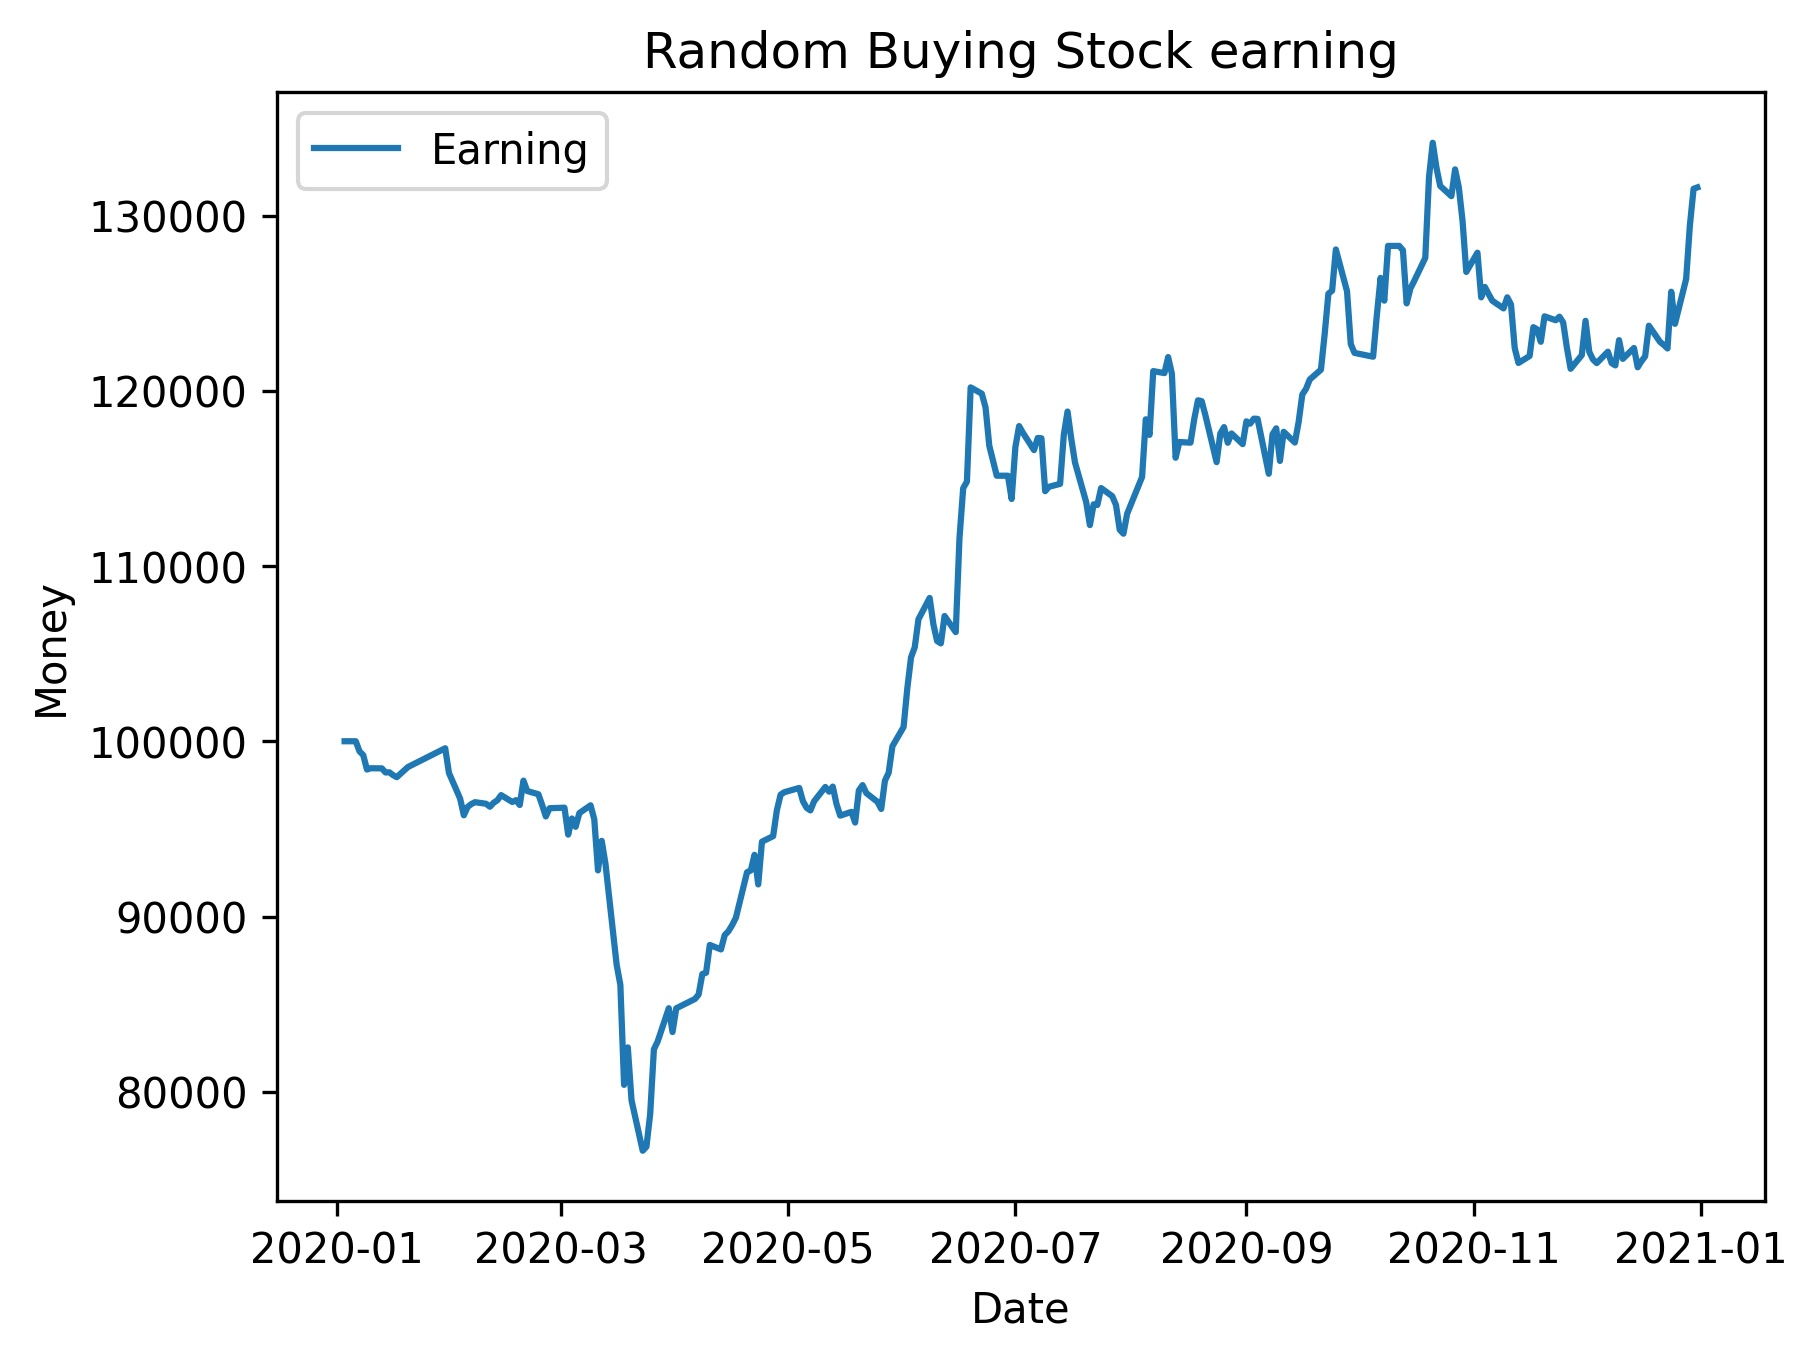
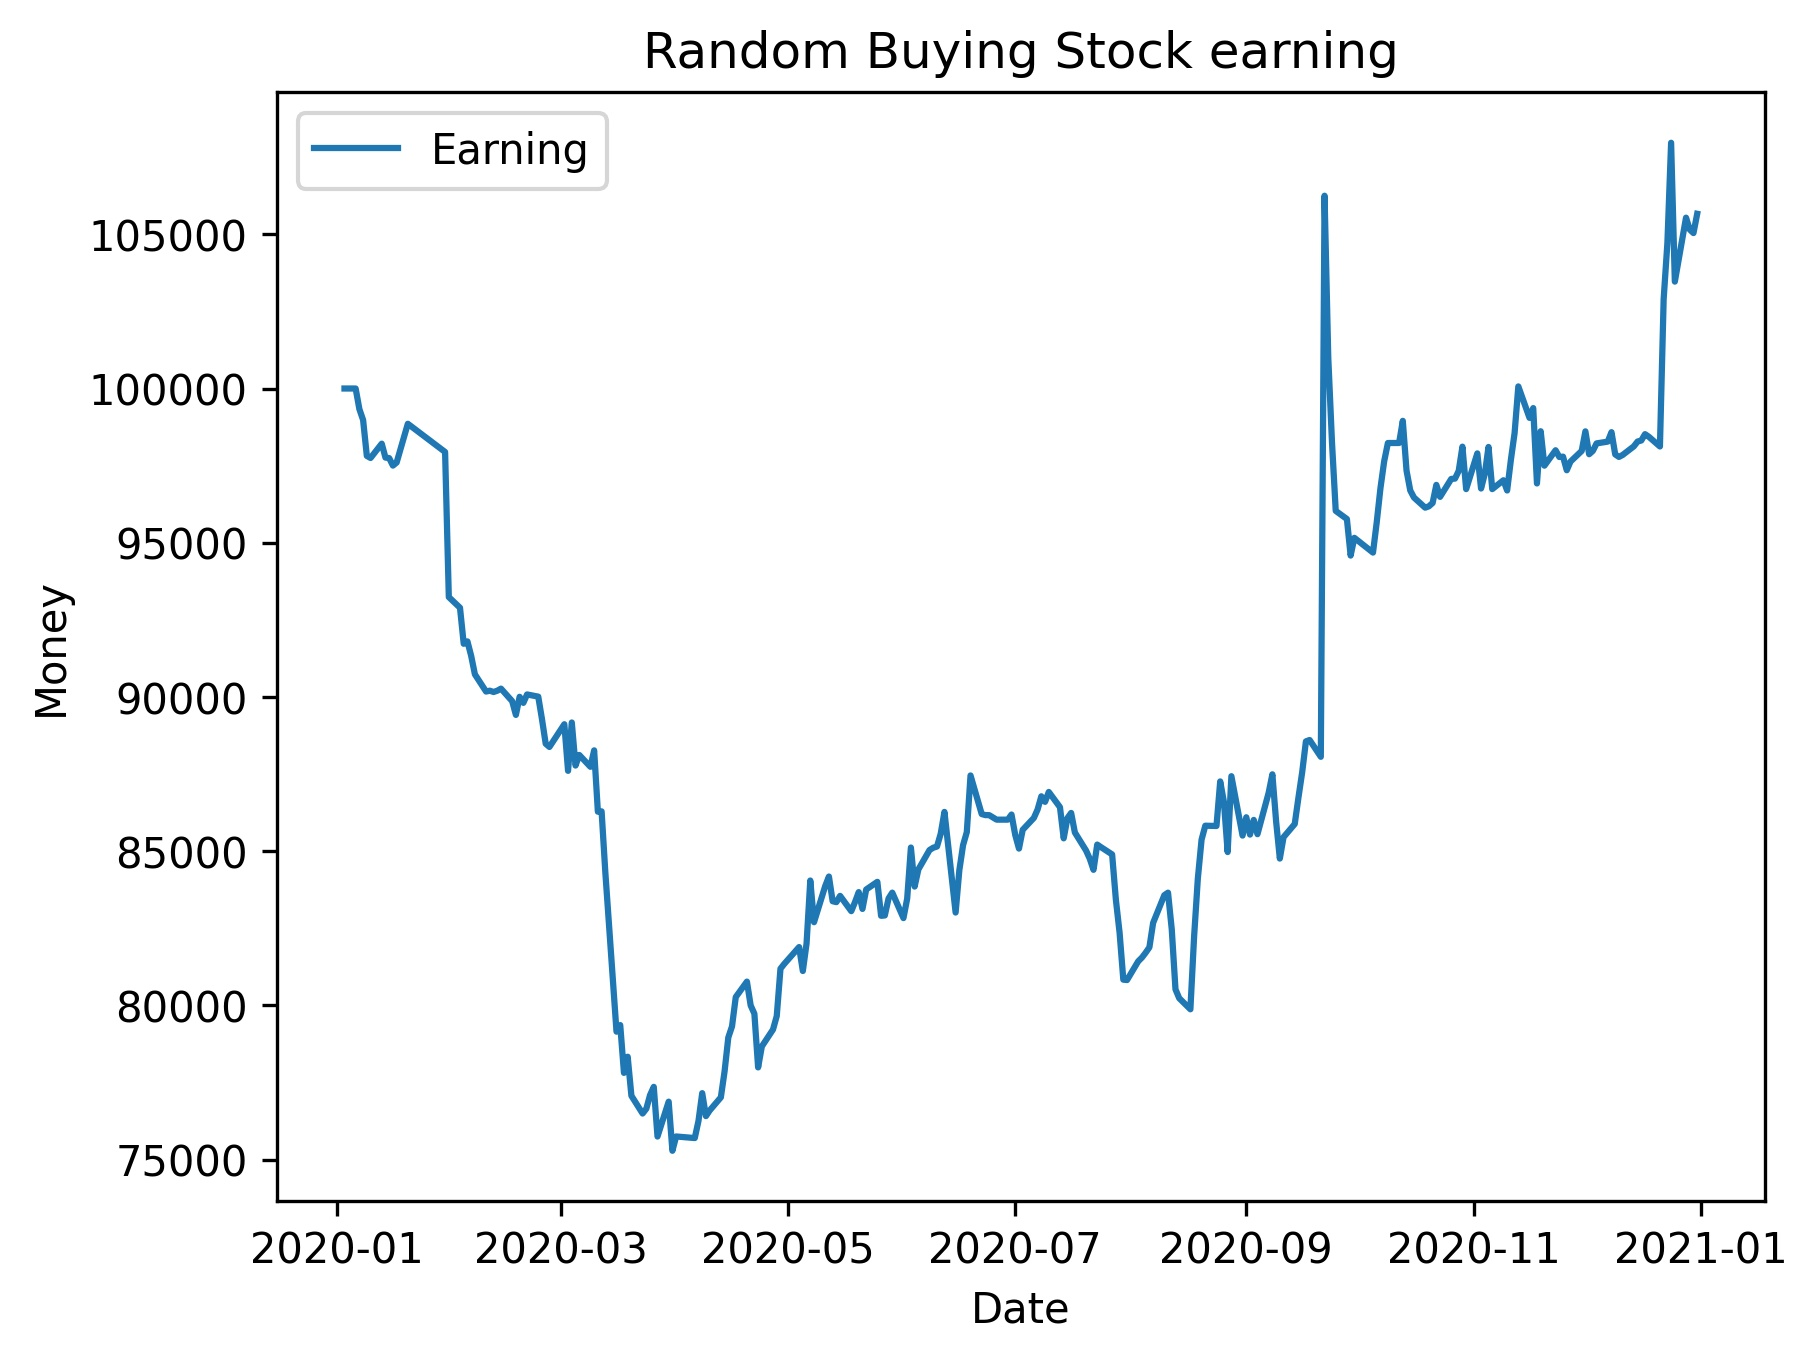
50 portion MA cross

diff --git a/Strategy_0.py b/Strategy_0.py
@@ -4,14 +4,15 @@ from pandas.core import series
 import matplotlib.pyplot as plt
 
 series = pd.date_range(start='2020-01-01', end='2020-12-31', freq='D')
-asset = [ [10000, "-1", "-1"] for i in range(10)]
+asset = [ [2000, "-1", 0] for i in range(50)]
 rawdata = pd.read_csv('../mapping.csv')
-rawdata = rawdata["ticker"].array[:1085]
+rawdata = rawdata["ticker"].array[127:1085]
 mapped = { i: 0 for i in rawdata}
 # read in data
 
 cnt = 0
 earning = [[]]
+# earning_single = [[]] * 10
 last = pd.DataFrame()
 
 for index in series:
@@ -25,13 +26,15 @@ for index in series:
     elif os.path.isfile("./ProcessedData\\" + time + ".csv"):    
  
         sum = 0
-        for i in range(10):
+        for i in range(50):
             sum += asset[i][0]
+        # print(sum)
         earning.append([index, sum])
         # update for the plot
 
         time_data = pd.read_csv("./ProcessedData\\" + time + ".csv")
-        for i in range(10):
+        for i in range(50):
+            # print(asset[i])
             if asset[i][1] == "-1":
                 for j in rawdata:
                     today = time_data.loc[time_data['identifier'] == j]
@@ -46,12 +49,17 @@ for index in series:
                 if not today.empty:
                     asset[i][0] = asset[i][2] * today['open_'].values[0]    
 
+                yest = last.loc[last['identifier'] == asset[i][1]]
+                if not today.empty and not yest.empty and today['MA_5'].values[0] < today['MA_20'].values[0] and yest['MA_20'].values[0] < yest['MA_5'].values[0]:
+                    mapped[asset[i][1]] = 0
+                    asset[i][1] = "-1"
+                    asset[i][2] = 0
 
 
             
 
         last = time_data
-
+# print(earning)
 series = pd.DataFrame(earning, columns =['date', 'earning'])
 series['date'] = pd.to_datetime(series['date'])
 plt.plot(series['date'], series['earning'])
@@ -60,7 +68,7 @@ plt.ylabel('Money')
 plt.title('Random Buying Stock earning')
 plt.legend(['Earning'])
 
-plt.savefig('./Result/plot_new.jpg', dpi=300, bbox_inches='tight')
+plt.savefig('./Result/plot_new1.jpg', dpi=300, bbox_inches='tight')
 
 
 
